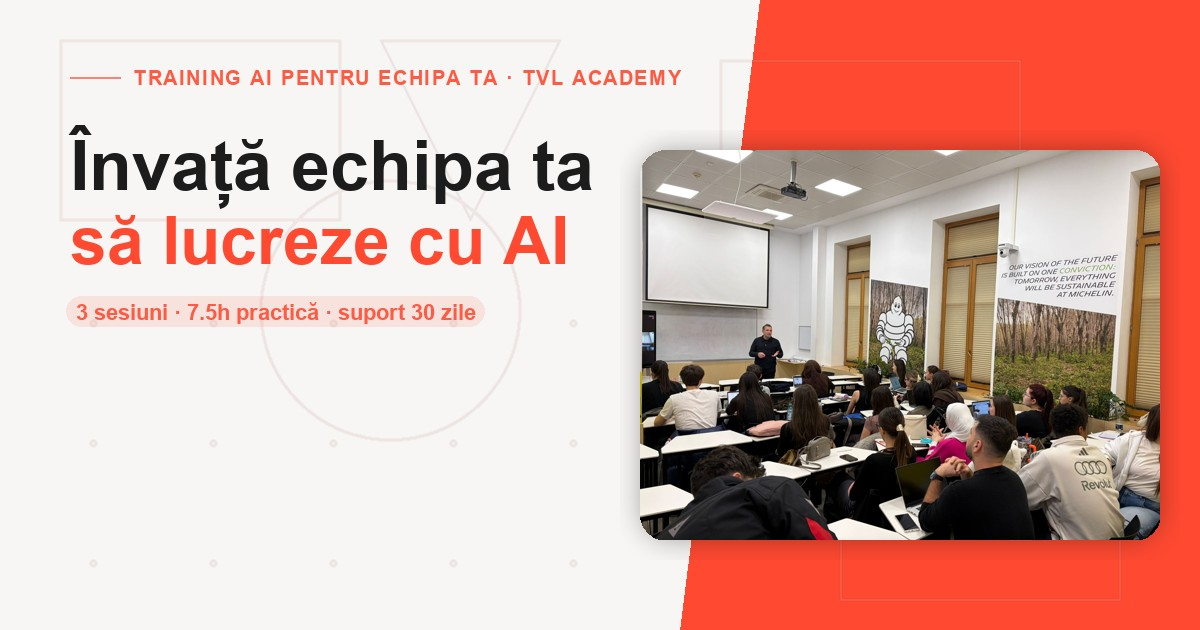
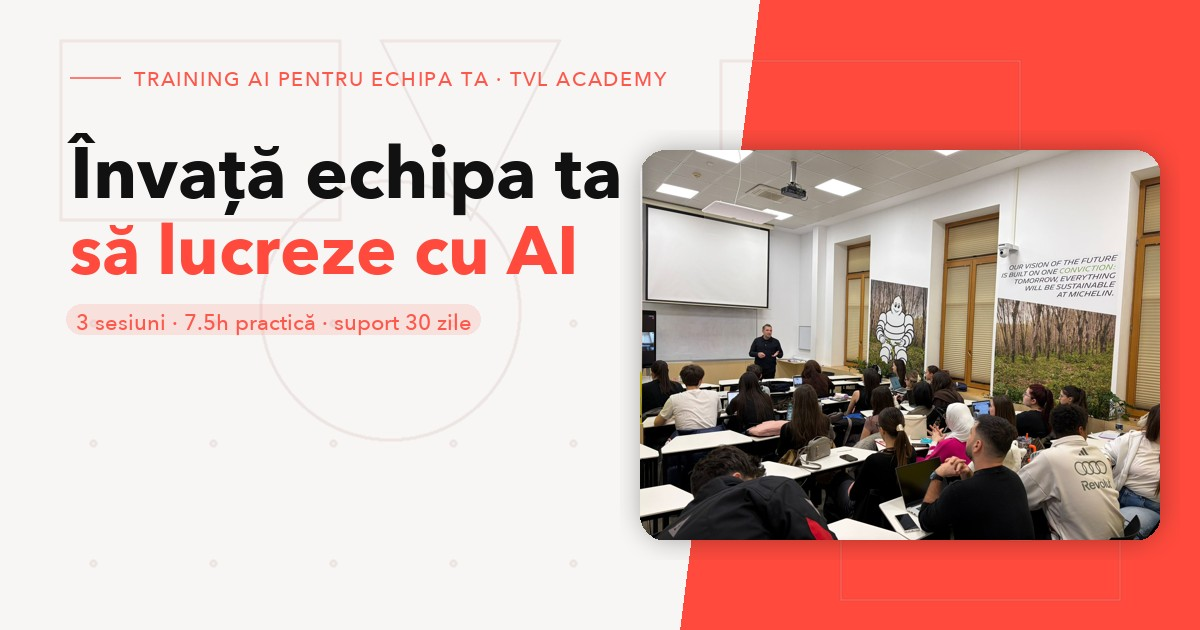
font updates

Changed region(s): [[0.0617, 0.181, 0.5242, 0.4524], [0.1233, 0.0905, 0.555, 0.1508], [0.0617, 0.4825, 0.4008, 0.5429]]

diff --git a/index.css b/index.css
@@ -1,24 +1,31 @@
-@import url('https://fonts.googleapis.com/css2?family=Open+Sans:wght@300;400;600;700&display=swap');
+@import url('https://fonts.googleapis.com/css2?family=Space+Grotesk:wght@400;500;600;700&family=Manrope:wght@300;400;500;600;700&display=swap');
 
     *, *::before, *::after { box-sizing: border-box; margin: 0; padding: 0; }
 
     :root {
-      --red: rgb(255, 73, 49);
-      --red-dark: rgb(204, 45, 24);
-      --red-light: rgb(255, 140, 120);
-      --dark: #111111;
+      --red: #ff4a3d;
+      --red-dark: #d63a2a;
+      --red-light: #ff9a8f;
+      --dark: #0f0f0f;
       --dark2: #1a1a1a;
       --light-bg: #f7f6f4;
-      --text: #1c1c1c;
-      --text-sec: #555555;
+      --text: #111111;
+      --text-sec: #4a4a4a;
+      --font-display: 'Space Grotesk', 'Segoe UI', sans-serif;
+      --font-body: 'Manrope', 'Segoe UI', sans-serif;
     }
 
     html { scroll-behavior: smooth; }
 
     body {
-      font-family: 'Open Sans', sans-serif;
+      font-family: var(--font-body);
       color: var(--text);
       background: #fff;
+    }
+
+    h1, h2, h3, h4, h5, h6 {
+      font-family: var(--font-display);
+      letter-spacing: -0.01em;
     }
 
     /* ── FADE IN ── */
@@ -40,7 +47,7 @@
     .nav-logo { display: flex; align-items: center; gap: 8px; text-decoration: none; }
     .nav-logo svg { display: block; flex-shrink: 0; }
     .nav-logo-text {
-      font-family: 'Open Sans', sans-serif;
+      font-family: var(--font-display);
       font-size: 15px;
       font-weight: 700;
       color: #FF4931;
@@ -265,6 +272,7 @@
     }
     .hero-btns { display: flex; gap: 16px; justify-content: flex-start; flex-wrap: wrap; margin-bottom: 48px; }
     .btn-primary {
+      font-family: var(--font-display);
       background: var(--red);
       color: #fff;
       text-decoration: none;
@@ -276,6 +284,7 @@
     }
     .btn-primary:hover { background: var(--red-dark); }
     .btn-ghost {
+      font-family: var(--font-display);
       background: transparent;
       border: 2px solid rgba(0,0,0,0.2);
       color: #1c1c1c;
@@ -644,9 +653,9 @@
     }
     .contact-form select option { background: #fff; color: var(--text); }
     .btn-submit {
+      font-family: var(--font-display);
       background: var(--red);
       color: #fff;
-      font-family: 'Open Sans', sans-serif;
       font-size: 15px;
       font-weight: 700;
       border: none;
